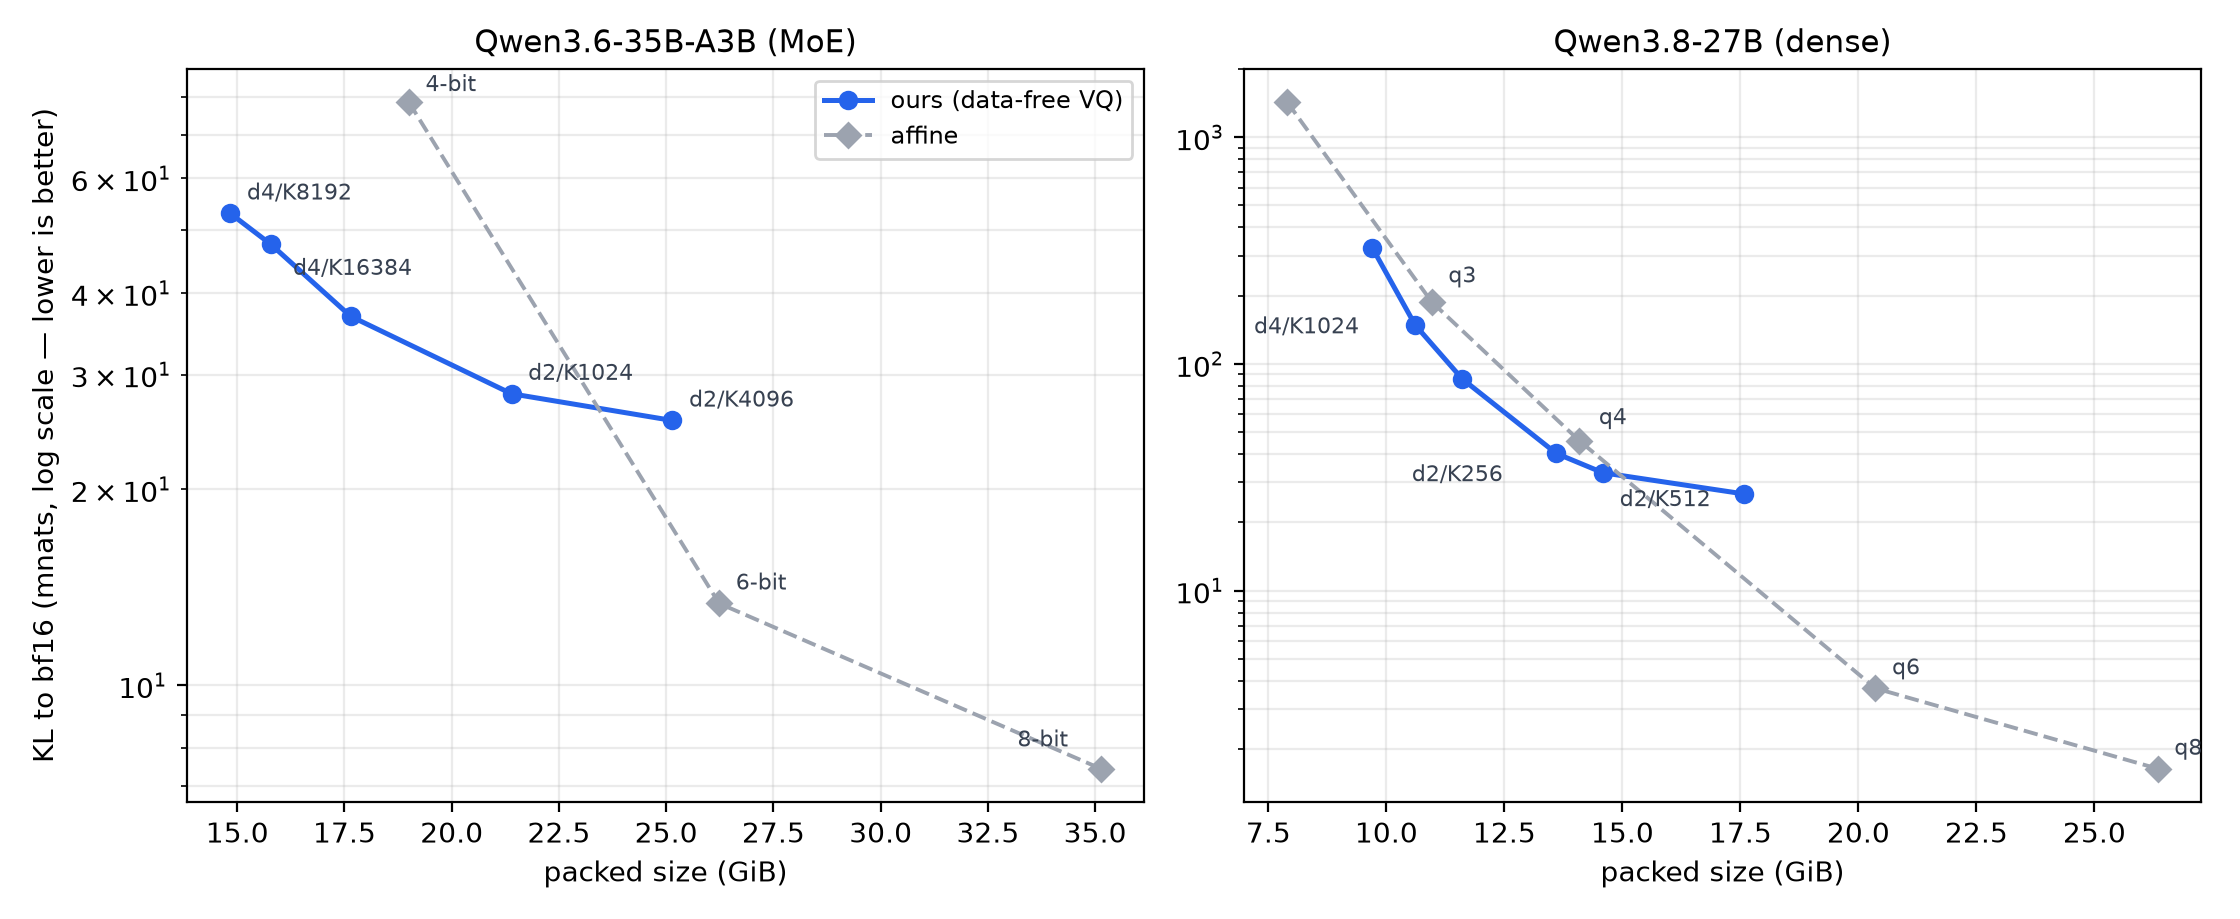
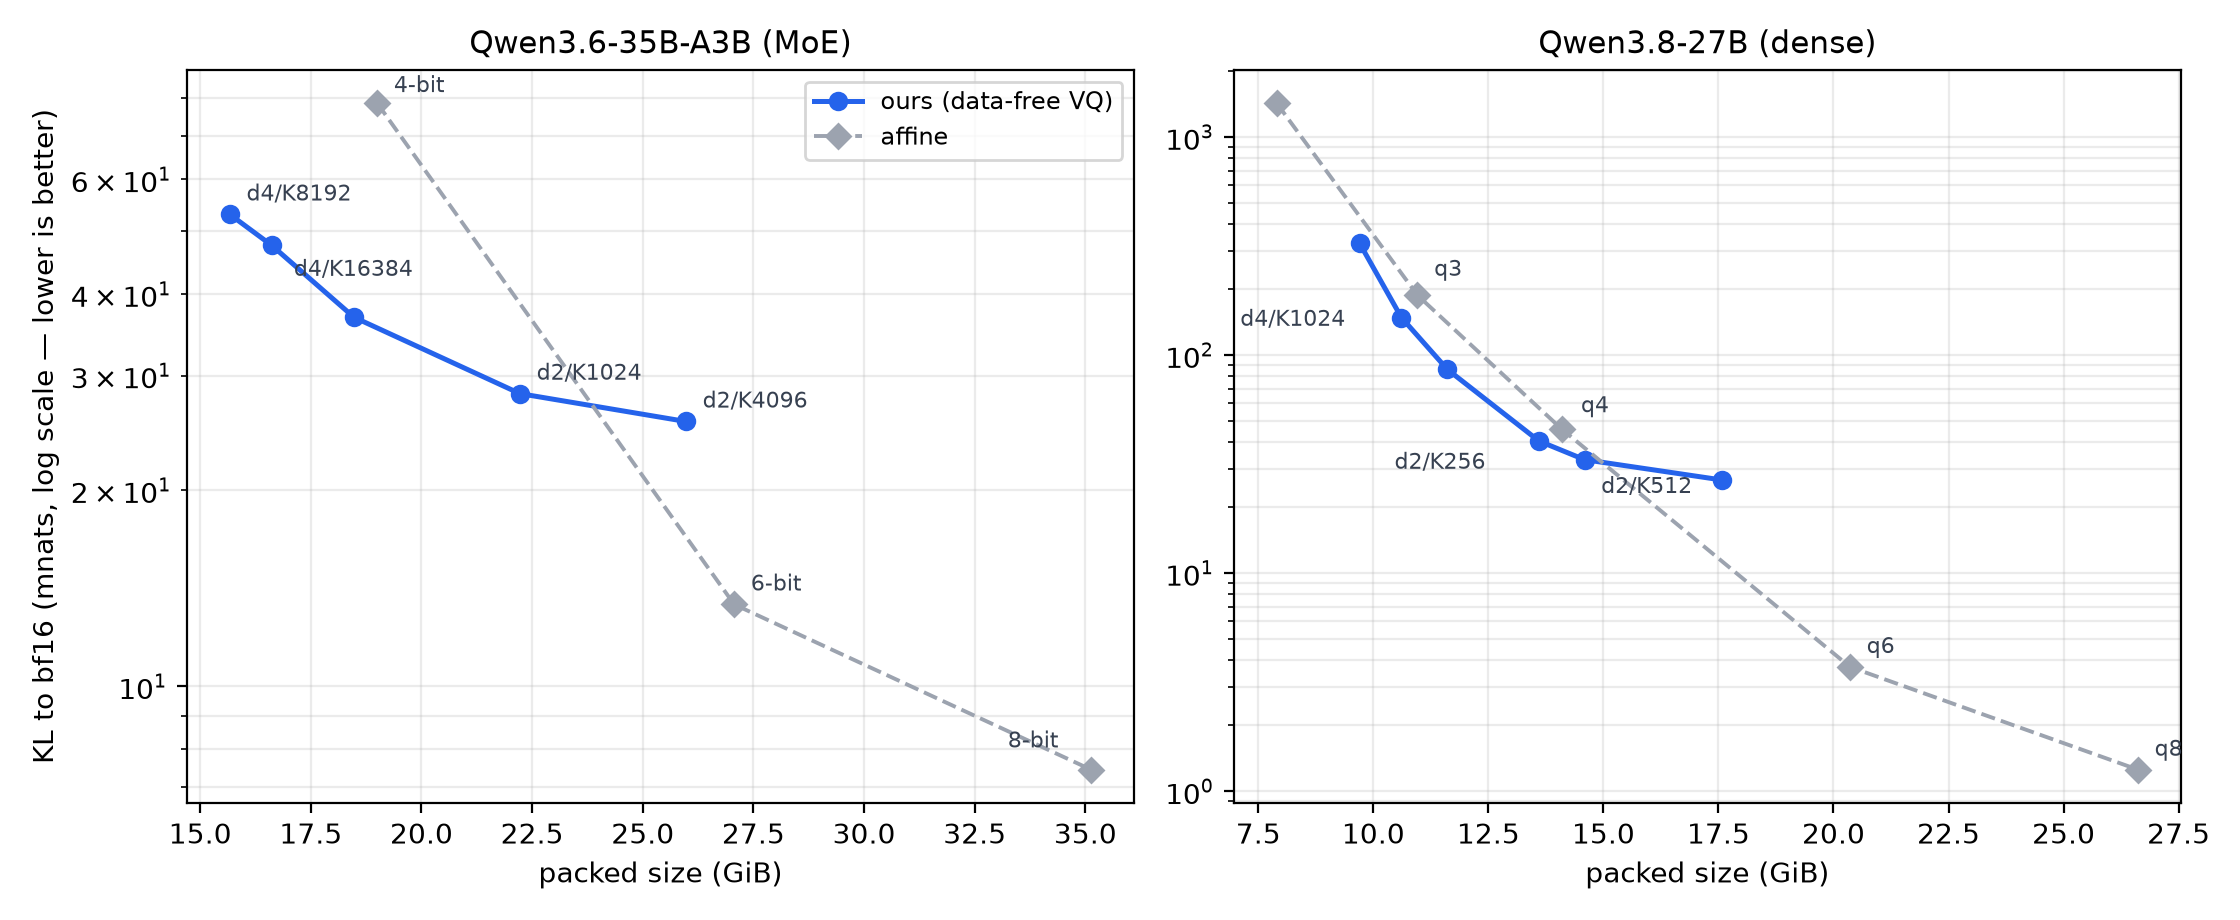
regenerate figures: they were stale against today's tables
Charts were built 08-23 and carried four values the tables no longer use:
35B sizes text-only (now measured post-graft, +0.832 each), our q6 at 26.234
(grafted to 27.066), d2/K1024 KL as the two-draw mean 28.03 (now the artifact,
28.141), and 27B q8 at 26.34/1.64 (rebuilt, 26.617/1.254).

A figure that disagrees with the table beside it is the same defect as a card
that disagrees with its bytes - and it would have shipped, because nothing
regenerates them automatically.

diff --git a/research/quantlab/paper/make_charts.py b/research/quantlab/paper/make_charts.py
@@ -47,15 +47,18 @@ fig.tight_layout(); fig.savefig("paper/fig_397b_ladder.png", dpi=200)
 # ---- 35B and dense 27B: KL vs packed GiB, log y -----------------------------
 fig, axes = plt.subplots(1, 2, figsize=(11.2, 4.6))
 
-vq35 = [(14.838, 53.022, "d4/K8192"), (15.783, 47.535, "d4/K16384"),
-        (17.643, 36.862, None), (21.394, 28.03, "d2/K1024"),
-        (25.145, 25.502, "d2/K4096")]
-aff35 = [(19.000, 78.557, "4-bit"), (26.234, 13.358, "6-bit"),
+# 35B sizes are MEASURED POST-GRAFT: every rung carries the 0.832 GiB bf16
+# vision tower, as the community comparators always did. Our q6 was grafted
+# 08-24; q4 and q8 are community builds that already had it.
+vq35 = [(15.670, 53.022, "d4/K8192"), (16.615, 47.535, "d4/K16384"),
+        (18.475, 36.862, None), (22.226, 28.141, "d2/K1024"),
+        (25.977, 25.502, "d2/K4096")]
+aff35 = [(19.000, 78.557, "4-bit"), (27.066, 13.358, "6-bit"),
          (35.131, 7.449, "8-bit")]
 vq27 = [(9.7, 325.6, None), (10.61, 148.5, "d4/K1024"), (11.61, 85.8, None),
         (13.60, 40.3, "d2/K256"), (14.59, 33.1, "d2/K512"), (17.58, 26.7, None)]
 aff27 = [(7.9, 1426.9, None), (10.96, 187.8, "q3"), (14.09, 45.8, "q4"),
-         (20.36, 3.71, "q6"), (26.34, 1.64, "q8")]
+         (20.36, 3.71, "q6"), (26.617, 1.254, "q8")]  # q8 REBUILT (E144)
 
 for ax, vq, aff, title in [
         (axes[0], vq35, aff35, "Qwen3.6-35B-A3B (MoE)"),
